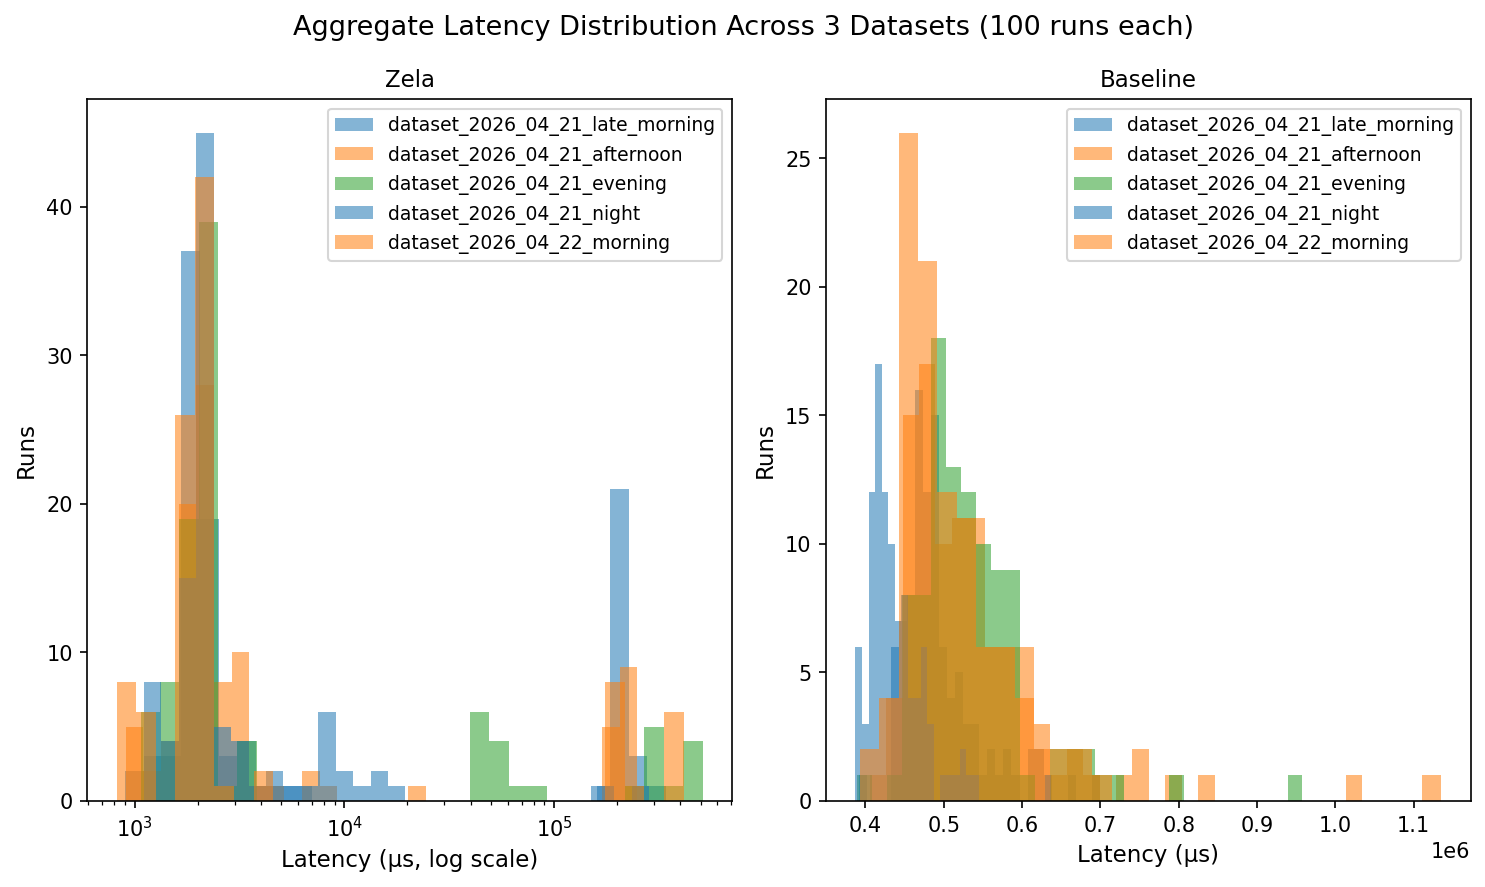
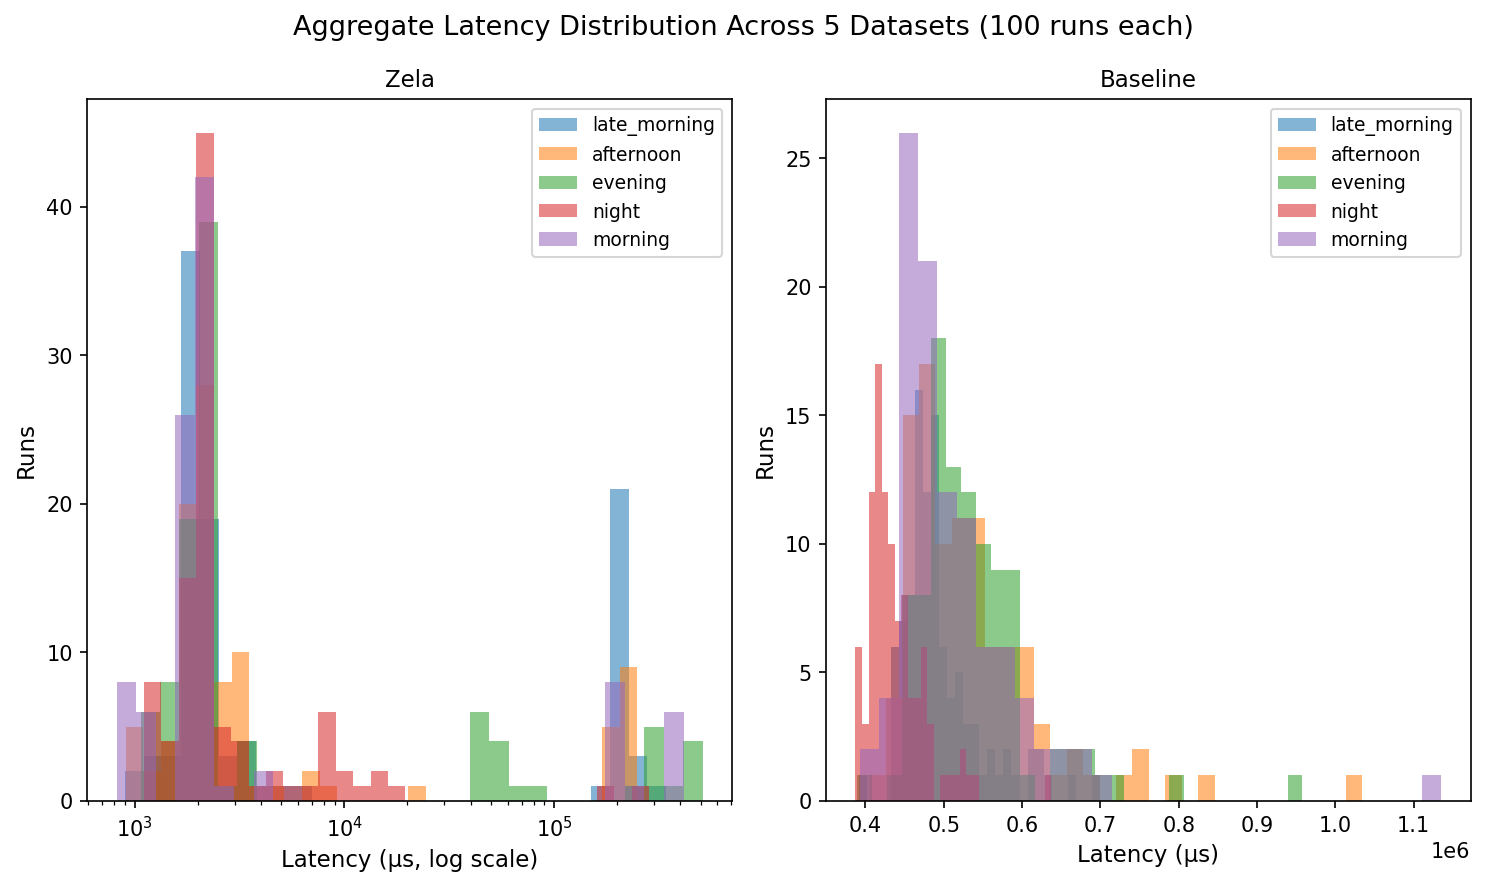
chore(M4a): finalize analysis script and figures for 5-dataset output
Two sets of changes had diverged between script and generated output:

Script changes (were local only):
- DS_COLS expanded from 3 to 5 distinct colors (#1f77b4, #ff7f0e,
  #2ca02c, #d62728, #9467bd) to disambiguate datasets in overlay plots
- latency_distribution title now reflects actual dataset count
  (len(datasets)) instead of hardcoded 'Across 3 Datasets'
- slot_consistency: labels rotated 45deg, dataset name prefix stripped
  for readability, legend moved outside plot area
- time_of_day: same label treatment as slot_consistency

Regenerated outputs (match new script):
- docs/figures/summary.json: combined stats over 497 Zela + 500 baseline
  runs across 5 datasets (late_morning, afternoon, evening, night, morning)
- 5 PNGs regenerated with updated palette and layout

diff --git a/analysis/analyze.py b/analysis/analyze.py
@@ -26,7 +26,14 @@ FEED_ORDER = [
 ]
 Z_COL = "#1f77b4"
 B_COL = "#ff7f0e"
-DS_COLS = ["#1f77b4", "#ff7f0e", "#2ca02c"]
+DS_COLS = ["#1f77b4", "#ff7f0e", "#2ca02c", "#d62728", "#9467bd",
+           "#8c564b", "#e377c2", "#7f7f7f"]
+
+
+def short_ds(name: str) -> str:
+    """Strip dataset_YYYY_MM_DD_ prefix for readable axis labels."""
+    parts = name.split("_")
+    return "_".join(parts[4:]) if len(parts) > 4 and parts[0] == "dataset" else name
 
 FIGURES_DIR = Path(__file__).resolve().parent.parent / "docs" / "figures"
 
@@ -160,7 +167,7 @@ def fig_latency_distribution(datasets):
     fig, (ax_z, ax_b) = plt.subplots(1, 2, figsize=(10, 6))
     for i, ds in enumerate(datasets):
         aggs = ds["aggs"]
-        kw = dict(alpha=0.55, color=DS_COLS[i % len(DS_COLS)], label=ds["name"])
+        kw = dict(alpha=0.55, color=DS_COLS[i % len(DS_COLS)], label=short_ds(ds["name"]))
         z = aggs[aggs["side"] == "zela"]["wall_clock_total_us"].dropna()
         b = aggs[aggs["side"] == "baseline"]["wall_clock_total_us"].dropna()
         if len(z) > 1:
@@ -174,7 +181,7 @@ def fig_latency_distribution(datasets):
         ax.set_ylabel("Runs", fontsize=11)
         ax.set_title(title, fontsize=11)
         ax.legend(fontsize=9)
-    fig.suptitle("Aggregate Latency Distribution Across 3 Datasets (100 runs each)", fontsize=13)
+    fig.suptitle(f"Aggregate Latency Distribution Across {len(datasets)} Datasets (100 runs each)", fontsize=13)
     fig.tight_layout()
     fig.savefig(FIGURES_DIR / "latency_distribution.png", dpi=150, bbox_inches="tight")
     plt.close(fig)
@@ -182,7 +189,7 @@ def fig_latency_distribution(datasets):
 
 def fig_slot_consistency(datasets):
     # Grouped stacked bar chart: two bars per dataset (Zela, Baseline), stacked by slot count.
-    ds_names = [ds["name"] for ds in datasets]
+    ds_labels = [short_ds(ds["name"]) for ds in datasets]
     x = np.arange(len(datasets))
     width = 0.35
     side_colors = {
@@ -207,10 +214,10 @@ def fig_slot_consistency(datasets):
         ax.bar(xpos, s3, width=width, color=sc["3+"], label=f"{label} – 3+ slots",
                bottom=[a + b for a, b in zip(s1, s2)])
     ax.set_xticks(x)
-    ax.set_xticklabels(ds_names, fontsize=10)
+    ax.set_xticklabels(ds_labels, rotation=45, ha="right", fontsize=10)
     ax.set_ylabel("% of runs", fontsize=11)
     ax.set_ylim(0, 105)
-    ax.legend(fontsize=9, ncol=2)
+    ax.legend(fontsize=9, loc="center left", bbox_to_anchor=(1.02, 0.5))
     ax.set_title("Slot Consistency: Fraction of Runs Returning Within a Single Slot", fontsize=13)
     fig.tight_layout()
     fig.savefig(FIGURES_DIR / "slot_consistency.png", dpi=150, bbox_inches="tight")
@@ -242,7 +249,7 @@ def fig_per_feed_latency(per_feed):
 
 
 def fig_time_of_day(datasets):
-    ds_names = [ds["name"] for ds in datasets]
+    ds_labels = [short_ds(ds["name"]) for ds in datasets]
     fig, (ax_z, ax_b) = plt.subplots(1, 2, figsize=(10, 6))
     for ax, side, col, title in [
         (ax_z, "zela", Z_COL, "Zela"), (ax_b, "baseline", B_COL, "Baseline"),
@@ -254,7 +261,7 @@ def fig_time_of_day(datasets):
         ax.boxplot(data, patch_artist=True,
                    boxprops=dict(facecolor=col, alpha=0.5),
                    medianprops=dict(color="black", linewidth=2))
-        ax.set_xticklabels(ds_names, rotation=15, ha="right", fontsize=9)
+        ax.set_xticklabels(ds_labels, rotation=45, ha="right", fontsize=9)
         ax.set_ylabel("wall_clock_total_us (µs)", fontsize=11)
         ax.set_title(title, fontsize=11)
     fig.suptitle("Aggregate Latency by Collection Window", fontsize=13)
